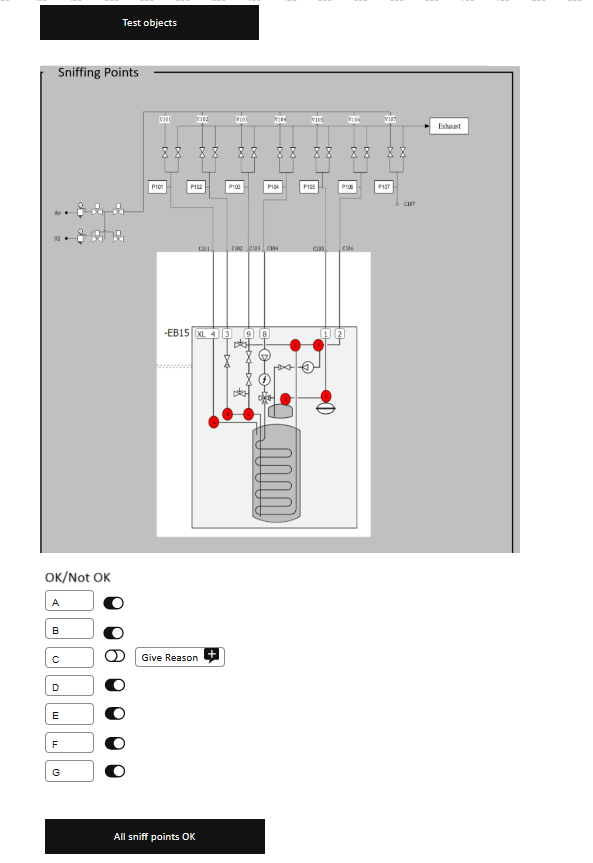
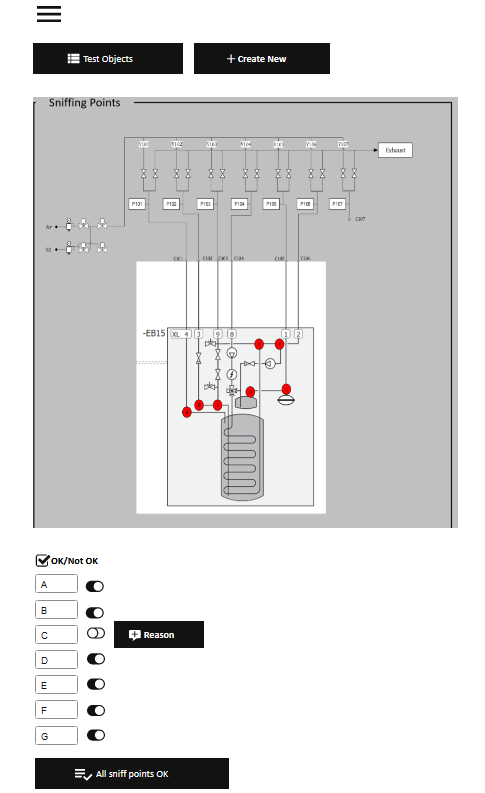
imgs wireframes

Changed region(s): [[0.0619, 0.0, 0.9588, 0.9987]]

diff --git a/_posts/2023-08-16-kravspecifikation.html b/_posts/2023-08-16-kravspecifikation.html
@@ -16,14 +16,27 @@ background: '/img/posts/kanban.png'
 <p>Use case diagram:</p>
 <img src="/img/posts/Usecasediagram.png" style="max-width: 100%"> 
 
+<p>Her er wireframe/skitse til, hvordan applikationen kan se ud, ved desktop:</p>
+<img src="/img/posts/wireframe.png" style="max-width: 100%">
+<p>Her er wireframe/skitse til, hvordan applikationen kan se ud, ved desktop:</p>
+<img src="/img/posts/wireframemobile.png" style="max-width: 100%">
+
 <p>Her er et forslag til, hvordan applikationen kan se ud, ved desktop:</p>
 <img src="/img/posts/desktopnolekpage.png" style="max-width: 100%">
 <p>Man kan klikke på test objects, hvilket åbner et vindue hvor man kan vælge et specifikt testobjekt:</p>
 <img src="/img/posts/desktopnolekpageselectobject.png" style="max-width: 100%">
+<p>Man kan klikke på create new for at lave et nyt test objekt, hvilket åbner et vindue hvor man kan oprette et nyt testobjekt:</p>
+<img src="/img/posts/desktopnolekpagecreate.png" style="max-width: 100%">
+<p>Brugeren kan redigere, for hvert lækagepunkt, om den er ok/ikke ok, og give en begrundelse i et tekstfelt:</p>
+<img src="/img/posts/desktopnolekpagegivereason.png" style="max-width: 100%">
 
 <p>Forslag til layout til mobil:</p>
 <img src="/img/posts/nolekmobilesite.png" style="max-width: 100%">
-<br><br>
+<p>Man kan klikke på test objects, hvilket åbner et vindue hvor man kan vælge et specifikt testobjekt:</p>
 <img src="/img/posts/nolekmobilesitechoosetestobject.png" style="max-width: 100%">
+<p>Man kan klikke på create new for at lave et nyt test objekt, hvilket åbner et vindue hvor man kan oprette et nyt testobjekt:</p>
+<img src="/img/posts/nolekmobilesitecreate.png" style="max-width: 100%">
+<p>Brugeren kan redigere, for hvert lækagepunkt, om den er ok/ikke ok, og give en begrundelse i et tekstfelt:</p>
+<img src="/img/posts/nolekmobilesitegivereason.png" style="max-width: 100%">
 
 <p>Ved disse skitser er der ikke nogen menu, det skal der nok være, så man kan logge ind og ud, oprette ny bruger, og gå ind på ML delen</p>
